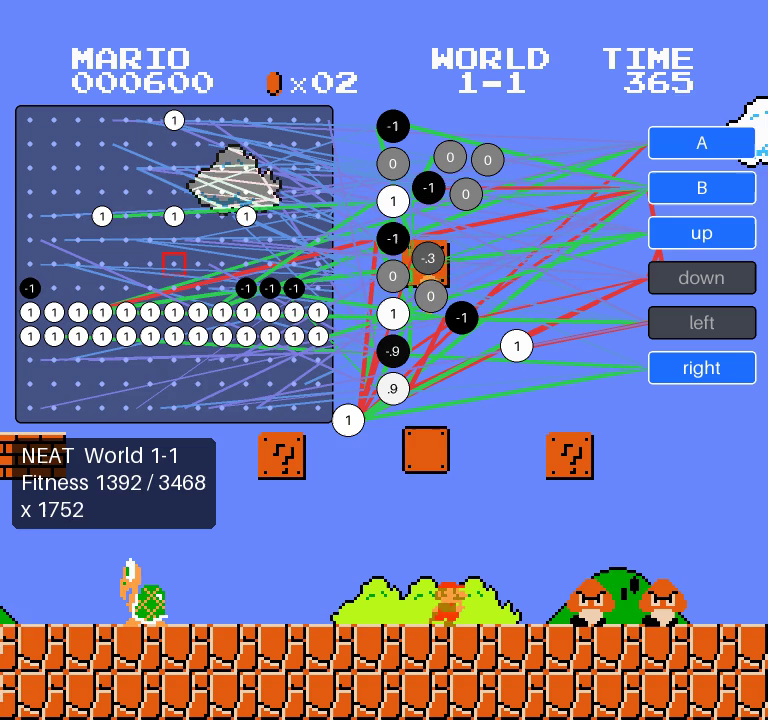
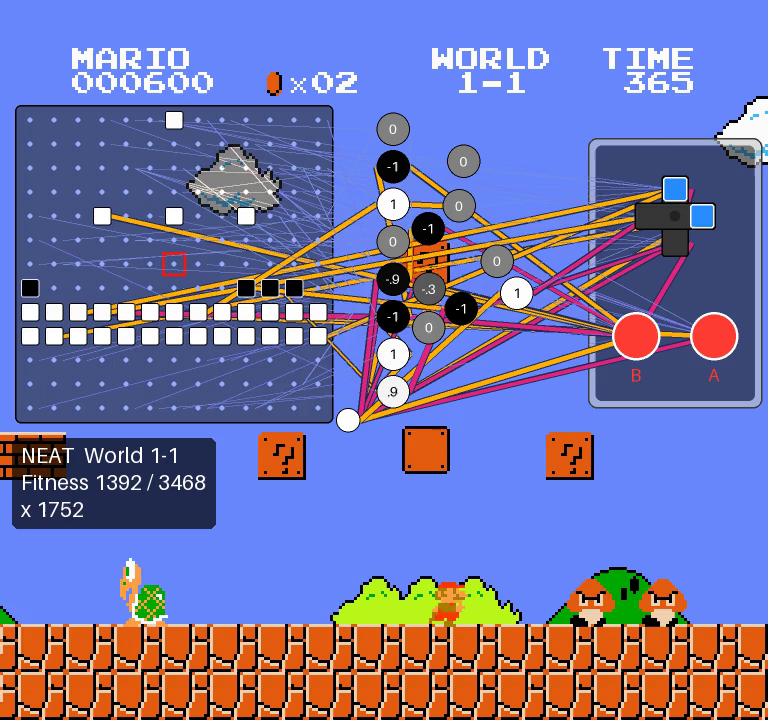
Draw the outputs as an NES controller and recolour the connections
- Outputs are an NES controller: D-pad arms turn blue and the red A/B
  buttons light up while held. The controller is see-through so Mario
  stays visible behind it.
- Inputs are squares again, without numbers.
- Connections use amber (positive) and magenta (negative) from IBM's
  colour-blind-safe palette instead of green/red, with a dark outline on
  active ones; inactive ones are barely visible so the grid stays clean.

Claude-Session: https://claude.ai/code/session_01FGEteUtDZSdzSGGCMdn7cZ

Changed region(s): [[0.0312, 0.1528, 1.0, 0.6111], [0.0625, 0.55, 0.125, 0.5806]]

diff --git a/marlio/agents/neat/display.py b/marlio/agents/neat/display.py
@@ -12,18 +12,20 @@ in a window and in a video.
 
 What you see:
 
-* **Input grid** (left): the 13 x 13 cells the network sees. A white ``1``
-  is a solid block, a black ``-1`` an enemy; empty cells are small dots.
+* **Input grid** (left): the 13 x 13 cells the network sees. A white square
+  is a solid block, a black square an enemy; empty cells are small dots.
   The red square in the middle is Mario.
-* **Bias** (the circle at the grid's bottom-right corner): the input that is
-  always 1.
+* **Bias** (the small white circle at the grid's bottom-right corner): the
+  input that is always 1.
 * **Hidden neurons** (middle): one circle each, showing its current value,
   from black (-1) through grey (0) to white (+1).
-* **Buttons** (right): one square button per output, blue while the
-  network holds that button.
-* **Connections**: green for a positive weight, red for a negative one,
-  thicker for a stronger weight. A connection is drawn faint while the
-  neuron feeding it is 0 and bright while that neuron is sending a signal.
+* **Controller** (right): the 6 outputs drawn as an NES controller. A D-pad
+  arm turns blue, and the red A or B button lights up, while the network
+  holds it.
+* **Connections**: amber for a positive weight, magenta for a negative one,
+  thicker for a stronger weight. A connection is bright and outlined while
+  the neuron feeding it is sending a signal, and barely visible while that
+  neuron is 0.
 * **Info box** (left, under the grid): whatever lines the caller passes,
   such as the level and the fitness so far.
 """
@@ -42,30 +44,48 @@ from marlio.inputs import BOX_RADIUS
 # score / coins / world / time.
 GRID_CENTRE = (58, 88)
 CELL_SPACING = 8
-INPUT_RADIUS = 3.5
+INPUT_HALF = 3  # input squares are 6 x 6
 BIAS_POSITION = (116, 140)
-HIDDEN_START = (165, 60)
-HIDDEN_MIN_X, HIDDEN_MAX_X = 131, 202
+BIAS_RADIUS = 4
+HIDDEN_START = (160, 60)
+HIDDEN_MIN_X, HIDDEN_MAX_X = 131, 185
 HIDDEN_MIN_Y, HIDDEN_MAX_Y = 42, 138
 HIDDEN_RADIUS = 5.5
 # How far MarI/O pushes a hidden neuron right of the neurons feeding it
 # (MarI/O uses 40 for a 130-pixel-wide band; this band is narrower).
 HIDDEN_PUSH = 22
-BUTTON_X, BUTTON_WIDTH, BUTTON_HEIGHT = 216, 36, 11
-BUTTON_TOP, BUTTON_SPACING = 42, 15
 INFO_TOP = 146
 NETWORK_BOTTOM = 150
 
+# The outputs are drawn as an NES controller: a D-pad on top, B and A below.
+CONTROLLER = (196, 46, 254, 136)  # left, top, right, bottom
+DPAD_CENTRE = (225, 72)
+DPAD_HALF_WIDTH = 4.5  # half the width of each arm
+DPAD_REACH = 13.5  # from the centre to the end of each arm
+AB_RADIUS = 8
+OUTPUT_POSITIONS = {
+    "A": (238, 112),
+    "B": (212, 112),
+    "up": (DPAD_CENTRE[0], DPAD_CENTRE[1] - 9),
+    "down": (DPAD_CENTRE[0], DPAD_CENTRE[1] + 9),
+    "left": (DPAD_CENTRE[0] - 9, DPAD_CENTRE[1]),
+    "right": (DPAD_CENTRE[0] + 9, DPAD_CENTRE[1]),
+}
+
 SUPERSAMPLE = 2
 
-POSITIVE = (40, 210, 70)
-NEGATIVE = (235, 50, 40)
-HELD = (30, 110, 255)
+# Connection colours from IBM Design's colour-blind-safe palette: amber and
+# magenta stay distinct for red-green colour blindness (unlike green and
+# red), differ in lightness, and neither is the sky's blue or the bricks'
+# orange. Active connections also get a dark outline so they stand out on
+# any background.
+POSITIVE = (255, 176, 0)  # #FFB000
+NEGATIVE = (220, 38, 127)  # #DC267F
+CASING = (0, 0, 0, 170)
+HELD = (40, 140, 255)  # a pressed D-pad arm
+A_B_UP = (130, 25, 25)  # NES A/B red, not pressed...
+A_B_DOWN = (255, 60, 50)  # ... and pressed
 MARIO = (230, 30, 30)
-
-
-def button_centre(o: int) -> tuple[float, float]:
-    return BUTTON_X + BUTTON_WIDTH / 2, BUTTON_TOP + BUTTON_SPACING * o + BUTTON_HEIGHT / 2
 
 
 def neuron_positions(genome: Genome, n_inputs: int, n_outputs: int) -> dict[int, tuple[float, float]]:
@@ -87,7 +107,7 @@ def neuron_positions(genome: Genome, n_inputs: int, n_outputs: int) -> dict[int,
             i += 1
     positions[n_inputs - 1] = list(BIAS_POSITION)
     for o in range(n_outputs):
-        positions[MAX_NODES + o] = [BUTTON_X, button_centre(o)[1]]
+        positions[MAX_NODES + o] = list(OUTPUT_POSITIONS[BUTTONS[o]])
 
     def is_hidden(neuron: int) -> bool:
         return n_inputs <= neuron < MAX_NODES
@@ -175,7 +195,6 @@ class NetworkDisplay:
         self.scale = scale
         self.positions = neuron_positions(genome, network.n_inputs, network.n_outputs)
         u = scale * SUPERSAMPLE  # pixels per NES pixel while drawing the network
-        self.input_font = ImageFont.load_default(size=4 * u)
         self.hidden_font = ImageFont.load_default(size=4.5 * u)
         self.button_font = ImageFont.load_default(size=6 * u)
         self.info_font = ImageFont.load_default(size=7 * scale)
@@ -231,36 +250,51 @@ class NetworkDisplay:
         n_inputs = self.network.n_inputs
         positions = self.positions
 
-        def circle(x, y, r, fill, outline=(0, 0, 0, 255)):
+        def box(x0, y0, x1, y1, fill, outline=None, width=0, radius=0):
+            draw.rounded_rectangle((x0 * u, y0 * u, x1 * u, y1 * u), radius=radius * u,
+                                   fill=fill, outline=outline, width=round(width * u))
+
+        def circle(x, y, r, fill, outline=(0, 0, 0, 255), width=0.4):
             draw.ellipse(((x - r) * u, (y - r) * u, (x + r) * u, (y + r) * u),
-                         fill=fill, outline=outline, width=max(1, u // 3))
+                         fill=fill, outline=outline, width=max(1, round(width * u)))
 
         def label(x, y, text, font, fill):
             draw.text((x * u, y * u), text, fill=fill, font=font, anchor="mm")
 
-        # Backdrop behind the input grid, and Mario's cell.
+        # Backdrop behind the input grid, Mario's cell, and the controller.
         cx, cy = GRID_CENTRE
         half = BOX_RADIUS * CELL_SPACING + CELL_SPACING / 2 + 1
-        draw.rounded_rectangle(((cx - half) * u, (cy - half) * u, (cx + half) * u, (cy + half) * u),
-                               radius=2 * u, fill=(40, 40, 40, 0x90), outline=(0, 0, 0, 255), width=u // 2)
+        box(cx - half, cy - half, cx + half, cy + half, (40, 40, 40, 0x90), (0, 0, 0, 255), 0.5, 2)
         m = CELL_SPACING / 2
-        draw.rectangle(((cx - m) * u, (cy - m) * u, (cx + m) * u, (cy + m) * u), outline=MARIO, width=u)
+        box(cx - m, cy - m, cx + m, cy + m, None, MARIO, 1)
+        left, top, right, bottom = CONTROLLER
+        box(left, top, right, bottom, (200, 200, 200, 150), (60, 60, 60, 255), 0.5, 3)  # grey case (see-through, so Mario can be seen behind it)
+        box(left + 2.5, top + 2.5, right - 2.5, bottom - 2.5, (25, 25, 25, 150), None, 0, 2)  # black face
 
-        # Connections first, so neurons sit on top of their ends.
+        # Connections. Inactive ones (the neuron feeding them is 0) are kept
+        # faint and thin so the grid stays readable; active ones are bright,
+        # outlined, and thicker for stronger weights.
         for gene in self.genome.genes:
             if not gene.enabled:
                 continue
             (x1, y1), (x2, y2) = positions[gene.into], positions[gene.out]
-            x1 += INPUT_RADIUS if gene.into < n_inputs else HIDDEN_RADIUS
+            if gene.into < n_inputs - 1:
+                x1 += INPUT_HALF
+            else:
+                x1 += BIAS_RADIUS if gene.into == n_inputs - 1 else HIDDEN_RADIUS
             if gene.out < MAX_NODES:
                 x2 -= HIDDEN_RADIUS
-            active = values.get(gene.into, 0.0) != 0
             colour = POSITIVE if gene.weight > 0 else NEGATIVE
-            width = (0.5 + 1.0 * abs(sigmoid(gene.weight))) * u * (1 if active else 0.6)
-            draw.line((x1 * u, y1 * u, x2 * u, y2 * u),
-                      fill=(*colour, 235 if active else 35), width=max(1, round(width)))
+            points = (x1 * u, y1 * u, x2 * u, y2 * u)
+            if values.get(gene.into, 0.0) == 0:
+                draw.line(points, fill=(*colour, 30), width=max(1, round(0.4 * u)))
+                continue
+            width = (0.6 + 1.0 * abs(sigmoid(gene.weight))) * u
+            draw.line(points, fill=CASING, width=round(width + 0.8 * u))
+            draw.line(points, fill=(*colour, 255), width=max(1, round(width)))
 
-        # Inputs: a numbered circle for every cell that isn't empty, a dot otherwise.
+        # Inputs: a white square for a solid block, a black one for an enemy,
+        # a dot for an empty cell.
         for neuron in range(n_inputs - 1):
             x, y = positions[neuron]
             value = values.get(neuron, 0.0)
@@ -268,26 +302,41 @@ class NetworkDisplay:
                 circle(x, y, 0.8, (255, 255, 255, 0x50), outline=None)
                 continue
             shade = _shade(value)
-            circle(x, y, INPUT_RADIUS, (shade, shade, shade, 255))
-            label(x, y, value_text(value), self.input_font, (0, 0, 0) if shade > 140 else (255, 255, 255))
+            box(x - INPUT_HALF, y - INPUT_HALF, x + INPUT_HALF, y + INPUT_HALF,
+                (shade, shade, shade, 255), (0, 0, 0, 255) if shade > 128 else (255, 255, 255, 200), 0.4, 0.8)
 
-        # Bias and hidden neurons.
+        # Bias and hidden neurons: circles showing their value.
         for neuron, (x, y) in positions.items():
             if neuron < n_inputs - 1 or neuron >= MAX_NODES:
                 continue
             value = values.get(neuron, 0.0)
             shade = _shade(value)
+            if neuron == n_inputs - 1:
+                circle(x, y, BIAS_RADIUS, (255, 255, 255, 255))
+                continue
             circle(x, y, HIDDEN_RADIUS, (shade, shade, shade, 255))
             label(x, y, value_text(value), self.hidden_font, (0, 0, 0) if shade > 140 else (255, 255, 255))
 
-        # Buttons, blue while held.
-        for o, name in enumerate(BUTTONS):
-            held = values.get(MAX_NODES + o, 0.0) > 0
-            top = BUTTON_TOP + BUTTON_SPACING * o
-            draw.rounded_rectangle(
-                (BUTTON_X * u, top * u, (BUTTON_X + BUTTON_WIDTH) * u, (top + BUTTON_HEIGHT) * u),
-                radius=1.5 * u, fill=HELD + (255,) if held else (60, 60, 60, 230),
-                outline=(255, 255, 255, 255) if held else (0, 0, 0, 255), width=max(1, u // 2),
-            )
-            label(*button_centre(o), name, self.button_font, (255, 255, 255) if held else (170, 170, 170))
+        # The controller: D-pad arms light up blue, A and B light up red.
+        held = {name: values.get(MAX_NODES + o, 0.0) > 0 for o, name in enumerate(BUTTONS)}
+        dx, dy = DPAD_CENTRE
+        w, r = DPAD_HALF_WIDTH, DPAD_REACH
+        box(dx - w, dy - r, dx + w, dy + r, (55, 55, 55, 255), (0, 0, 0, 255), 0.5, 1)
+        box(dx - r, dy - w, dx + r, dy + w, (55, 55, 55, 255), (0, 0, 0, 255), 0.5, 1)
+        arms = {
+            "up": (dx - w, dy - r, dx + w, dy - w),
+            "down": (dx - w, dy + w, dx + w, dy + r),
+            "left": (dx - r, dy - w, dx - w, dy + w),
+            "right": (dx + w, dy - w, dx + r, dy + w),
+        }
+        for name, (x0, y0, x1, y1) in arms.items():
+            if held[name]:
+                box(x0 + 0.5, y0 + 0.5, x1 - 0.5, y1 - 0.5, HELD + (255,), (255, 255, 255, 255), 0.5, 1)
+        circle(dx, dy, 1.8, (35, 35, 35, 255), outline=None)
+        for name in ("B", "A"):
+            x, y = OUTPUT_POSITIONS[name]
+            pressed = held[name]
+            circle(x, y, AB_RADIUS, A_B_DOWN + (255,) if pressed else A_B_UP + (255,),
+                   (255, 255, 255, 255) if pressed else (0, 0, 0, 255), 0.8 if pressed else 0.5)
+            label(x, y + AB_RADIUS + 5, name, self.button_font, A_B_DOWN if pressed else (170, 40, 40))
         return layer

diff --git a/tests/test_overlay.py b/tests/test_overlay.py
@@ -9,14 +9,13 @@ import pytest
 from marlio.agents.neat import N_INPUTS, N_OUTPUTS, Gene, Genome
 from marlio.agents.neat.display import (
     BIAS_POSITION,
-    BUTTON_X,
     GRID_CENTRE,
     HELD,
     HIDDEN_MAX_X,
     HIDDEN_MIN_X,
     HIDDEN_RADIUS,
+    OUTPUT_POSITIONS,
     NetworkDisplay,
-    button_centre,
     neuron_positions,
     value_text,
 )
@@ -39,7 +38,8 @@ def test_fixed_positions():
     assert positions[84] == GRID_CENTRE  # centre cell, where Mario is
     assert positions[0][0] < positions[1][0]  # row by row, left to right
     assert positions[BIAS] == BIAS_POSITION
-    assert positions[MAX_NODES] == (BUTTON_X, button_centre(0)[1])
+    assert positions[MAX_NODES] == OUTPUT_POSITIONS["A"]
+    assert positions[RIGHT] == OUTPUT_POSITIONS["right"]
 
 
 def test_hidden_neuron_sits_between_its_input_and_output():
@@ -62,7 +62,7 @@ def test_value_text(value, text):
     assert value_text(value) == text
 
 
-def test_draw_scales_the_screen_and_lights_held_buttons():
+def test_draw_scales_the_screen_and_lights_the_held_dpad_arm():
     genome = genome_with(Gene(BIAS, RIGHT, 1.0, innovation=1))
     network = Network(genome, N_INPUTS, N_OUTPUTS)
     display = NetworkDisplay(genome, network, scale=2)
@@ -71,9 +71,9 @@ def test_draw_scales_the_screen_and_lights_held_buttons():
     assert before.shape == (480, 512, 3)
     network.evaluate(np.zeros(N_INPUTS - 1))  # bias -> right: "right" is held
     after = display.draw(screen)
-    x, y = button_centre(5)
-    corner = after[int(y * 2) - 6, int(x * 2) - 20]  # inside the button, away from its label
-    assert tuple(corner) == HELD
+    x, y = OUTPUT_POSITIONS["right"]
+    assert tuple(before[int(y * 2), int(x * 2)]) != HELD
+    assert tuple(after[int(y * 2), int(x * 2)]) == HELD
     assert not np.array_equal(before, after)
 
 

diff --git a/docs/03-overlay-and-recording.md b/docs/03-overlay-and-recording.md
@@ -26,16 +26,31 @@ time visible. The code is `marlio/agents/neat/display.py`.
 
 | what | where | meaning |
 |------|-------|---------|
-| **Input grid** | dark box, left | The 13 x 13 cells the network sees ([step 1](01-environment-and-inputs.md)). A white circle with `1` is a solid block, a black circle with `-1` an enemy; empty cells (input 0) are small dots. The red square in the middle is Mario's cell. |
-| **Bias** | the circle at the grid's bottom-right corner | The input that is always 1, so the network can press buttons even when it sees nothing. |
+| **Input grid** | dark box, left | The 13 x 13 cells the network sees ([step 1](01-environment-and-inputs.md)). A white square is a solid block, a black square an enemy; empty cells (input 0) are small dots. The red square in the middle is Mario's cell. |
+| **Bias** | the small white circle at the grid's bottom-right corner | The input that is always 1, so the network can press buttons even when it sees nothing. |
 | **Hidden neurons** | the circles in the middle | Neurons NEAT added during evolution. The number is the neuron's current value (rounded to one decimal: `1`, `.7`, `0`, `-.3`, `-1`) and the shade matches it, from black (-1) through grey (0) to white (+1). |
-| **Buttons** | right edge | One square button per output. It turns **blue** while the network holds that button. |
-| **Connections** | lines | **Green** = positive weight (the source pushes the target up), **red** = negative (pushes it down). Thicker = stronger weight. A line is bright while its source neuron is sending a signal and faint while the source is 0. |
+| **Controller** | right | The 6 outputs drawn as an NES controller. A D-pad arm turns **blue**, and the red **A** or **B** button lights up, while the network holds it. The controller is see-through, so Mario stays visible when he runs behind it. |
+| **Connections** | lines | **Amber** = positive weight (the source pushes the target up), **magenta** = negative (pushes it down). Thicker = stronger weight. A line is bright and outlined while its source neuron is sending a signal, and barely visible while the source is 0, so the grid isn't covered by connections from empty cells. |
 | **Info box** | left, under the grid | The level, this run's fitness as it builds up (x reached - frames / 2, +1000 at the flag) next to the genome's fitness from training, and Mario's x position. |
 
 The numbers in the circles are neuron *values* (what each neuron outputs
 right now). Weights belong to the connections, and are shown by each line's
 colour and thickness.
+
+### Why amber and magenta
+
+MarI/O uses green and red, which are the two colours people with the most
+common colour blindness (red-green, about 1 in 12 men) can't tell apart,
+and which are both close to colours already in the level (pipes, bushes,
+bricks). Colour-blind-safe guides recommend avoiding red/green pairs and
+making the two colours differ in lightness too
+([Datawrapper](https://www.datawrapper.de/blog/colorblindness-part2),
+[Okabe-Ito palette](https://conceptviz.app/blog/okabe-ito-palette-hex-codes-complete-reference)).
+The pair used here, amber `#FFB000` and magenta `#DC267F`, comes from IBM
+Design's colour-blind-safe palette
+([NCEAS summary](https://nceas.ucsb.edu/sites/default/files/2022-06/Colorblind%20Safe%20Color%20Schemes.pdf)),
+and neither is the sky's blue. Each active line also gets a thin dark
+outline, so it stays visible over sky, bricks or clouds alike.
 
 What to watch for: as a pipe edge (white circles) or an enemy (black
 circles) moves into the grid, the lines leaving those cells light up and the
@@ -59,9 +74,9 @@ per run.
 ### Keeping it sharp
 
 The network is drawn at twice the output size and scaled down, which smooths
-circles, text and lines. Lines are at least 1.5 NES pixels wide, so they
-survive video compression (which stores colour at half resolution and
-blurs thin coloured lines).
+circles, text and lines. Active lines are 1 to 2 NES pixels wide plus their
+outline, so they survive video compression (which stores colour at half
+resolution and blurs thin coloured lines).
 
 ## Recording
 
@@ -108,5 +123,5 @@ plus a 3 s outro) and about 11 MB at 768 x 720.
   values, which the `Network` from step 2 already keeps between frames.
 * The network's picture is redrawn only when its values change (when it
   thinks, every 5 frames), and only the part of the screen it covers is
-  blended, which keeps the live window at 60 fps (measured: 24.9 s to show
+  blended, which keeps the live window at 60 fps (measured: 25.0 s to show
   24.1 s of game, in a virtual display).
